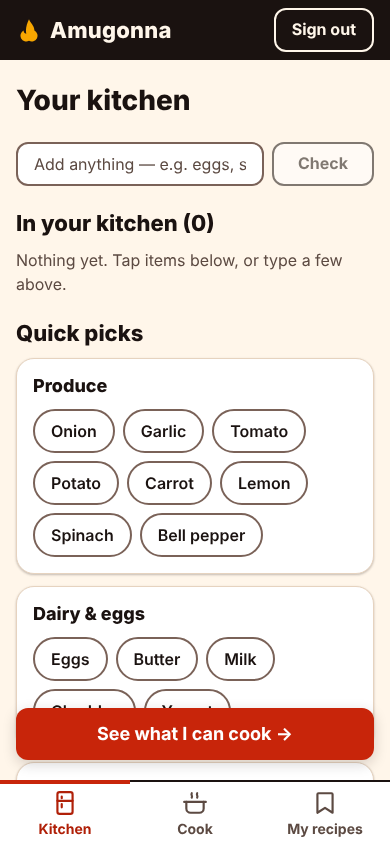
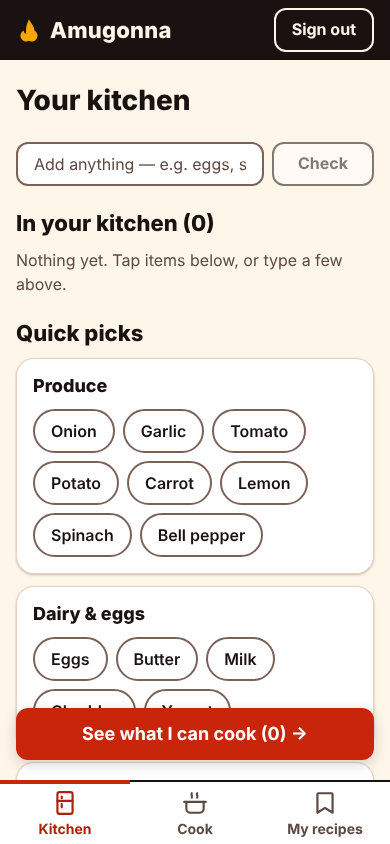
Kitchen: serialized write queue, flush on leave, cook-now count, grid filter, review nits

Changed region(s): [[0.2154, 0.8626, 0.8, 0.8934]]

diff --git a/client/src/components/kitchen/KitchenScreen.tsx b/client/src/components/kitchen/KitchenScreen.tsx
@@ -26,17 +26,49 @@ const KitchenScreen: React.FC<Props> = ({ onNavigate }) => {
   const [loading, setLoading] = useState(true);
   const [loadError, setLoadError] = useState<string | null>(null);
   const [actionError, setActionError] = useState<string | null>(null);
-  const [notice, setNotice] = useState('');
+  const [notice, setNotice] = useState({ text: '', n: 0 });
+  const [filter, setFilter] = useState('');
+  const [cookCount, setCookCount] = useState<number | null>(null);
+  const [saving, setSaving] = useState(false);
 
   // Taps not yet confirmed by the server (queued or in flight): ingredient id -> wanted state.
   const [pending, setPendingState] = useState<Pending>(new Map());
   const pendingRef = useRef<Pending>(pending);
+  const serverRef = useRef<Have[]>([]);
   const timer = useRef<ReturnType<typeof setTimeout> | null>(null);
   const alive = useRef(true);
+  // All pantry writes go through this one chain: a single request in flight at a time.
+  const chain = useRef<Promise<unknown>>(Promise.resolve());
+  const queued = useRef(0);
+  const countSeq = useRef(0);
 
   const setPending = (next: Pending) => {
     pendingRef.current = next;
-    setPendingState(next);
+    if (alive.current) setPendingState(next);
+  };
+  const setServerList = (list: Have[]) => {
+    serverRef.current = list;
+    if (alive.current) setServer(list);
+  };
+  const say = (text: string) => setNotice((n) => ({ text, n: n.n + 1 }));
+
+  const refreshCount = useCallback(() => {
+    const mine = ++countSeq.current;
+    setCookCount(null);
+    kitchenApi
+      .cookNowCount()
+      .then((n) => alive.current && countSeq.current === mine && setCookCount(n))
+      .catch(() => undefined); // no count on error
+  }, []);
+
+  const enqueue = <T,>(job: () => Promise<T>): Promise<T> => {
+    queued.current++;
+    const run = chain.current.then(job).finally(() => {
+      queued.current--;
+      if (alive.current && queued.current === 0 && !timer.current && pendingRef.current.size === 0) refreshCount();
+    });
+    chain.current = run.catch(() => undefined);
+    return run;
   };
 
   const load = useCallback(() => {
@@ -45,20 +77,65 @@ const KitchenScreen: React.FC<Props> = ({ onNavigate }) => {
     Promise.all([kitchenApi.pantry(), kitchenApi.common()])
       .then(([mine, c]) => {
         if (!alive.current) return;
-        setServer(toHave(mine));
+        setServerList(toHave(mine));
         setCommon(c);
+        refreshCount();
       })
       .catch((e: Error) => alive.current && setLoadError(e.message))
       .finally(() => alive.current && setLoading(false));
-  }, []);
+  }, [refreshCount]);
+
+  // Sends the queued taps. Entries that already match the server are dropped; an empty change sends nothing.
+  const flushJob = async (): Promise<boolean> => {
+    const snapshot: Pending = new Map(pendingRef.current);
+    const haveIds = new Set(serverRef.current.map((h) => h.id));
+    const changes = [...snapshot].filter(([id, p]) => p.want !== haveIds.has(id));
+    const add = changes.filter(([, p]) => p.want).map(([id]) => id);
+    const remove = changes.filter(([, p]) => !p.want).map(([id]) => id);
+    // Drop the snapshot's entries unless the person tapped them again while the call was in flight.
+    const settle = () => {
+      const next: Pending = new Map(pendingRef.current);
+      snapshot.forEach((p, id) => {
+        if (next.get(id)?.want === p.want) next.delete(id);
+      });
+      setPending(next);
+    };
+    if (changes.length === 0) {
+      settle();
+      return true;
+    }
+    try {
+      const res = await kitchenApi.bulk({ ...(add.length && { add }), ...(remove.length && { remove }) });
+      setServerList(toHave(res.ingredients));
+      if (alive.current) setActionError(null);
+      settle();
+      return true;
+    } catch (e) {
+      settle(); // revert the optimistic change
+      if (alive.current) setActionError(`Couldn't save that change. ${e instanceof Error ? e.message : ''}`.trim());
+      return false;
+    }
+  };
+
+  const flushNow = () => {
+    if (timer.current) clearTimeout(timer.current);
+    timer.current = null;
+    return enqueue(flushJob);
+  };
 
   useEffect(() => {
     alive.current = true;
     load();
     return () => {
       alive.current = false;
-      if (timer.current) clearTimeout(timer.current);
+      if (timer.current) {
+        // Leaving the screen with taps still waiting: send them now (fire and forget).
+        clearTimeout(timer.current);
+        timer.current = null;
+        void enqueue(flushJob);
+      }
     };
+    // eslint-disable-next-line react-hooks/exhaustive-deps
   }, [load]);
 
   // What the screen shows: server state with unconfirmed taps applied on top.
@@ -70,52 +147,39 @@ const KitchenScreen: React.FC<Props> = ({ onNavigate }) => {
   ];
   const haveIds = new Set(have.map((h) => h.id));
 
-  const flush = useCallback(async () => {
-    timer.current = null;
-    const snapshot: Pending = new Map(pendingRef.current);
-    const add = [...snapshot].filter(([, p]) => p.want).map(([id]) => id);
-    const remove = [...snapshot].filter(([, p]) => !p.want).map(([id]) => id);
-    // Drop the snapshot's entries unless the person tapped them again while the call was in flight.
-    const settle = () => {
-      const next: Pending = new Map(pendingRef.current);
-      snapshot.forEach((p, id) => {
-        if (next.get(id)?.want === p.want) next.delete(id);
-      });
-      setPending(next);
-    };
-    try {
-      const res = await kitchenApi.bulk({ ...(add.length && { add }), ...(remove.length && { remove }) });
-      if (!alive.current) return;
-      setServer(toHave(res.ingredients));
-      setActionError(null);
-      settle();
-    } catch (e) {
-      if (!alive.current) return;
-      settle(); // revert the optimistic change
-      setActionError(`Couldn't save that change. ${e instanceof Error ? e.message : ''}`.trim());
-    }
-  }, []);
-
   const toggle = (id: number, name: string, want: boolean) => {
     const next: Pending = new Map(pendingRef.current);
     next.set(id, { want, name });
     setPending(next);
     setActionError(null);
-    setNotice(want ? `Added ${name}` : `Removed ${name}`);
+    say(want ? `Added ${name}` : `Removed ${name}`);
     if (timer.current) clearTimeout(timer.current);
-    timer.current = setTimeout(flush, BATCH_MS);
+    timer.current = setTimeout(() => {
+      timer.current = null;
+      void enqueue(flushJob);
+    }, BATCH_MS);
   };
 
   const pickSuggestion = (item: SuggestItem) => {
     if (!haveIds.has(item.id)) toggle(item.id, item.name, true);
-    else setNotice(`${item.name} is already in your kitchen`);
+    else say(`${item.name} is already in your kitchen`);
   };
 
-  const addTexts = async (texts: string[]) => {
-    const res = await kitchenApi.bulk({ add: texts });
-    setServer(toHave(res.ingredients));
-    setActionError(null);
-    setNotice(`Added ${texts.length} ${texts.length === 1 ? 'item' : 'items'}`);
+  const addTexts = (texts: string[]) =>
+    enqueue(async () => {
+      const res = await kitchenApi.bulk({ add: texts });
+      setServerList(toHave(res.ingredients));
+      if (!alive.current) return;
+      setActionError(null);
+      say(`Added ${texts.length} ${texts.length === 1 ? 'item' : 'items'}`);
+    });
+
+  const goCook = async () => {
+    setSaving(true);
+    const ok = await flushNow(); // waits behind any in-flight save
+    if (!alive.current) return;
+    setSaving(false);
+    if (ok) onNavigate?.('cook');
   };
 
   if (loading) {
@@ -140,12 +204,17 @@ const KitchenScreen: React.FC<Props> = ({ onNavigate }) => {
   }
 
   const staples = common.staples.length ? common.staples.map((s) => s.name.toLowerCase()).join(', ') : DEFAULT_STAPLES;
+  // The last comma-separated piece of the input is what is being typed right now.
+  const term = filter.split(',').pop()!.trim().toLowerCase();
+  const groups = common.groups
+    .map((g) => ({ ...g, items: term ? g.items.filter((i) => i.name.toLowerCase().includes(term)) : g.items }))
+    .filter((g) => g.items.length > 0);
 
   return (
     <div className="kitchen">
       <h2 className="kitchen-title">Your kitchen</h2>
 
-      <AddBox onPick={pickSuggestion} onAddTexts={addTexts} />
+      <AddBox onPick={pickSuggestion} onAddTexts={addTexts} onTextChange={setFilter} />
 
       {actionError && (
         <p role="alert" className="kitchen-error">
@@ -153,7 +222,8 @@ const KitchenScreen: React.FC<Props> = ({ onNavigate }) => {
         </p>
       )}
       <p className="visually-hidden" role="status" aria-live="polite">
-        {notice}
+        {notice.text}
+        {notice.n % 2 === 0 ? '' : ''}
       </p>
 
       <section className="kitchen-have" aria-labelledby="kitchen-have-h">
@@ -183,8 +253,9 @@ const KitchenScreen: React.FC<Props> = ({ onNavigate }) => {
 
       <section aria-labelledby="kitchen-quick-h">
         <h3 id="kitchen-quick-h">Quick picks</h3>
+        {groups.length === 0 && <p className="kitchen-nomatch">No quick picks match "{term}".</p>}
         <div className="kitchen-groups">
-          {common.groups.map((g) => (
+          {groups.map((g) => (
             <div key={g.category} className="kitchen-group card">
               <h4>{g.category}</h4>
               <ul className="kitchen-chips">
@@ -212,8 +283,8 @@ const KitchenScreen: React.FC<Props> = ({ onNavigate }) => {
       </section>
 
       <div className="kitchen-cta">
-        <button type="button" className="btn btn-primary btn-block" onClick={() => onNavigate?.('cook')}>
-          See what I can cook →
+        <button type="button" className="btn btn-primary btn-block" onClick={goCook} disabled={saving}>
+          {saving ? 'Saving…' : `See what I can cook${cookCount === null ? '' : ` (${cookCount})`} →`}
         </button>
       </div>
     </div>

diff --git a/client/src/components/kitchen/AddBox.tsx b/client/src/components/kitchen/AddBox.tsx
@@ -7,9 +7,11 @@ interface Props {
   onPick: (item: SuggestItem) => void;
   /** Add several free-text strings; resolves when saved, rejects with a readable error. */
   onAddTexts: (texts: string[]) => Promise<void>;
+  /** Called with the raw input text on every change (used to filter the quick picks). */
+  onTextChange?: (text: string) => void;
 }
 
-const AddBox: React.FC<Props> = ({ onPick, onAddTexts }) => {
+const AddBox: React.FC<Props> = ({ onPick, onAddTexts, onTextChange }) => {
   const [text, setText] = useState('');
   const [suggestions, setSuggestions] = useState<SuggestItem[]>([]);
   const [active, setActive] = useState(-1);
@@ -17,6 +19,9 @@ const AddBox: React.FC<Props> = ({ onPick, onAddTexts }) => {
   const [busy, setBusy] = useState(false);
   const [error, setError] = useState<string | null>(null);
   const seq = useRef(0);
+  useEffect(() => {
+    onTextChange?.(text);
+  }, [text, onTextChange]);
   const listId = useId();
 
   // Debounced type-ahead (~150ms); stale responses are ignored.
@@ -119,7 +124,7 @@ const AddBox: React.FC<Props> = ({ onPick, onAddTexts }) => {
             type="text"
             role="combobox"
             aria-expanded={showList}
-            aria-controls={listId}
+            aria-controls={showList ? listId : undefined}
             aria-autocomplete="list"
             aria-activedescendant={active >= 0 ? `${listId}-${active}` : undefined}
             autoComplete="off"
@@ -128,6 +133,7 @@ const AddBox: React.FC<Props> = ({ onPick, onAddTexts }) => {
             value={text}
             onChange={(e) => {
               setText(e.target.value);
+              setActive(-1);
               setParsed(null);
               setError(null);
               if (!e.target.value.trim()) setSuggestions([]);

diff --git a/client/src/components/kitchen/Kitchen.css b/client/src/components/kitchen/Kitchen.css
@@ -9,6 +9,7 @@
   background: var(--color-error-bg); color: var(--color-error);
   border: 2px solid var(--color-error); border-radius: var(--radius-md); font-weight: 600;
 }
+.kitchen-nomatch { margin: 0; color: var(--color-ink-muted); }
 .kitchen-empty { margin: 0; color: var(--color-ink-muted); }
 
 /* Add box */
@@ -56,6 +57,11 @@
 .kitchen-cta .btn { box-shadow: var(--shadow-2); min-height: 52px; font-size: var(--text-lg); }
 
 @media (min-width: 768px) {
+  /* CTA sits top-right on the title row so it is visible on load */
+  .kitchen { display: grid; grid-template-columns: 1fr auto; column-gap: var(--space-4); row-gap: var(--space-5); }
+  .kitchen > * { grid-column: 1 / -1; }
+  .kitchen > .kitchen-title { grid-column: 1; grid-row: 1; align-self: center; }
+  .kitchen > .kitchen-cta { grid-column: 2; grid-row: 1; align-self: center; }
   .kitchen-groups { grid-template-columns: repeat(auto-fill, minmax(240px, 1fr)); align-items: start; }
   .kitchen-cta { position: static; padding: 0; }
   .kitchen-cta .btn { width: auto; min-width: 280px; box-shadow: none; }

diff --git a/client/src/services/kitchenApi.ts b/client/src/services/kitchenApi.ts
@@ -42,6 +42,10 @@ export const kitchenApi = {
       })
     ).items,
 
+  /** Number of recipes cookable right now (GET /recipes/suggestions -> data.cookNow). */
+  cookNowCount: async (): Promise<number> =>
+    (await request<{ cookNow: unknown[] }>('/recipes/suggestions')).cookNow.length,
+
   bulk: (change: { add?: (number | string)[]; remove?: number[] }) =>
     request<BulkResult>('/ingredients/user/bulk', { method: 'POST', body: JSON.stringify(change) }),
 };
